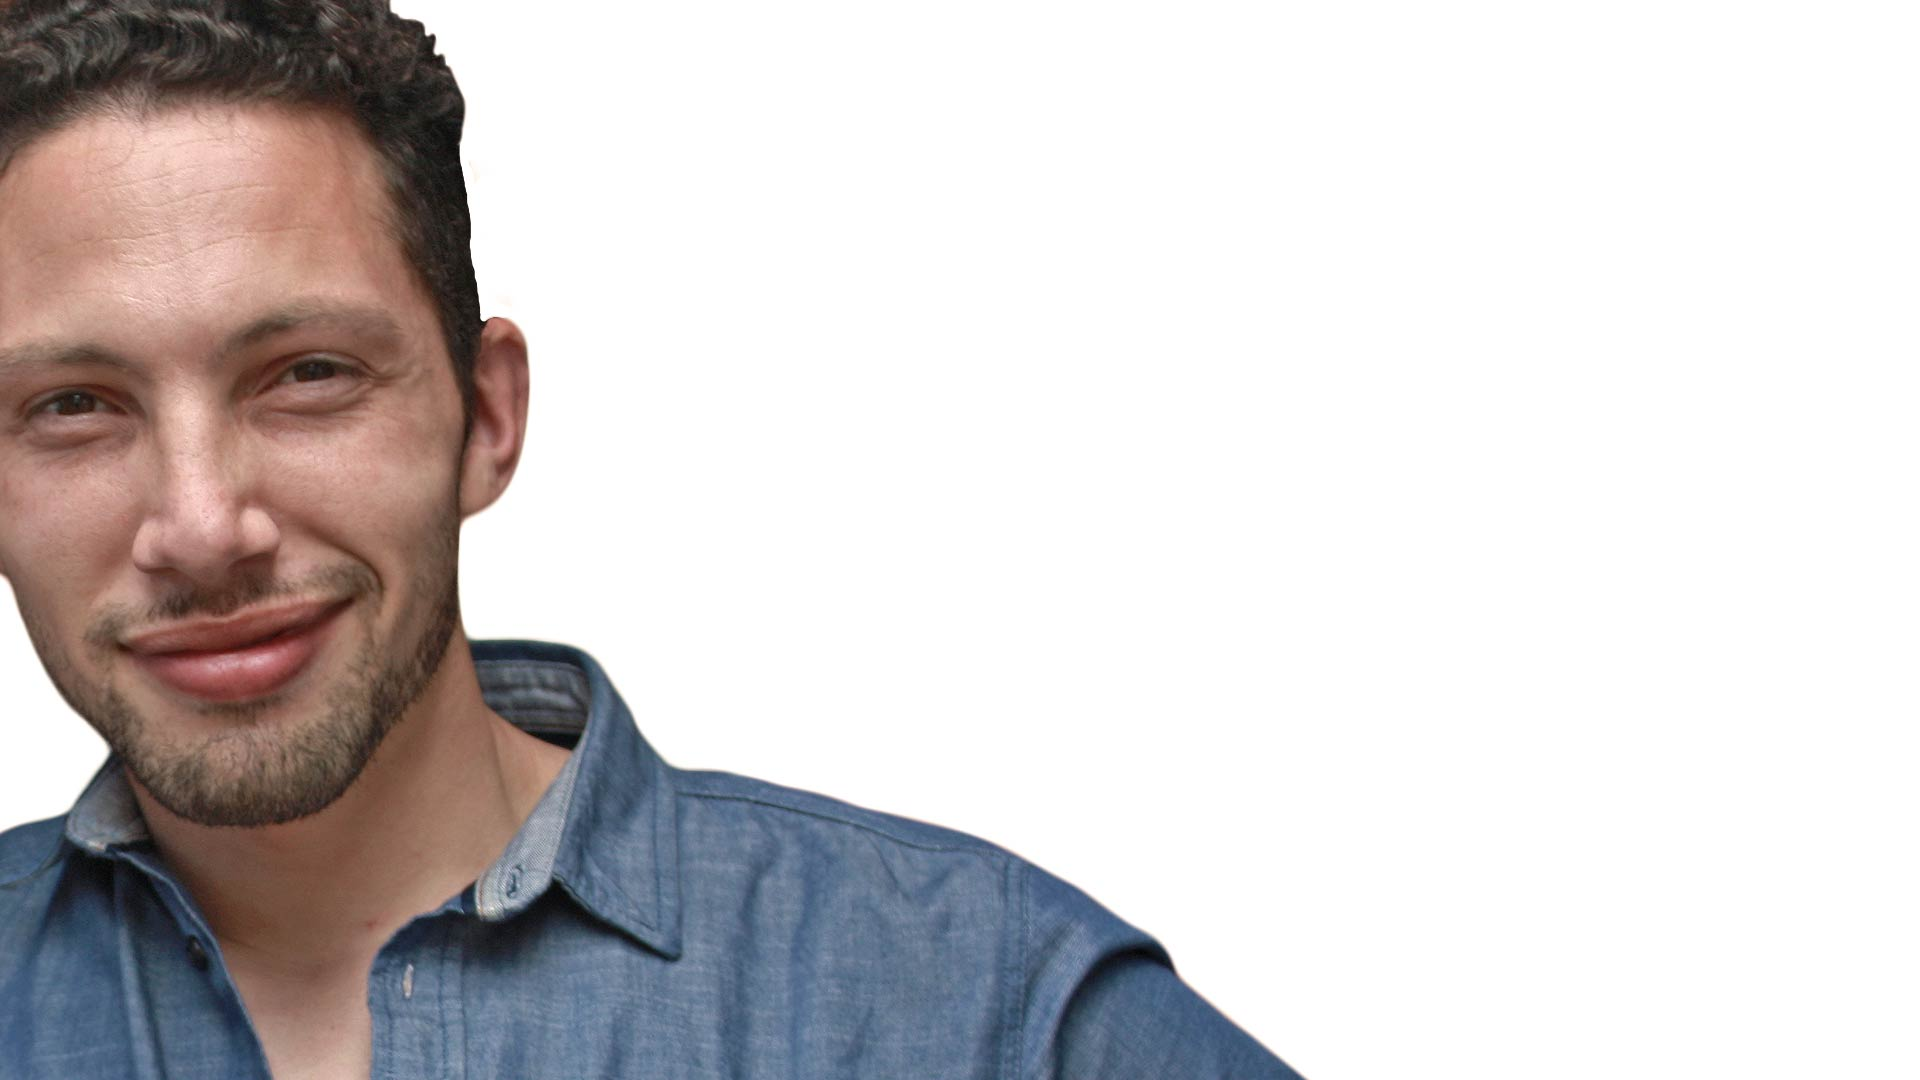
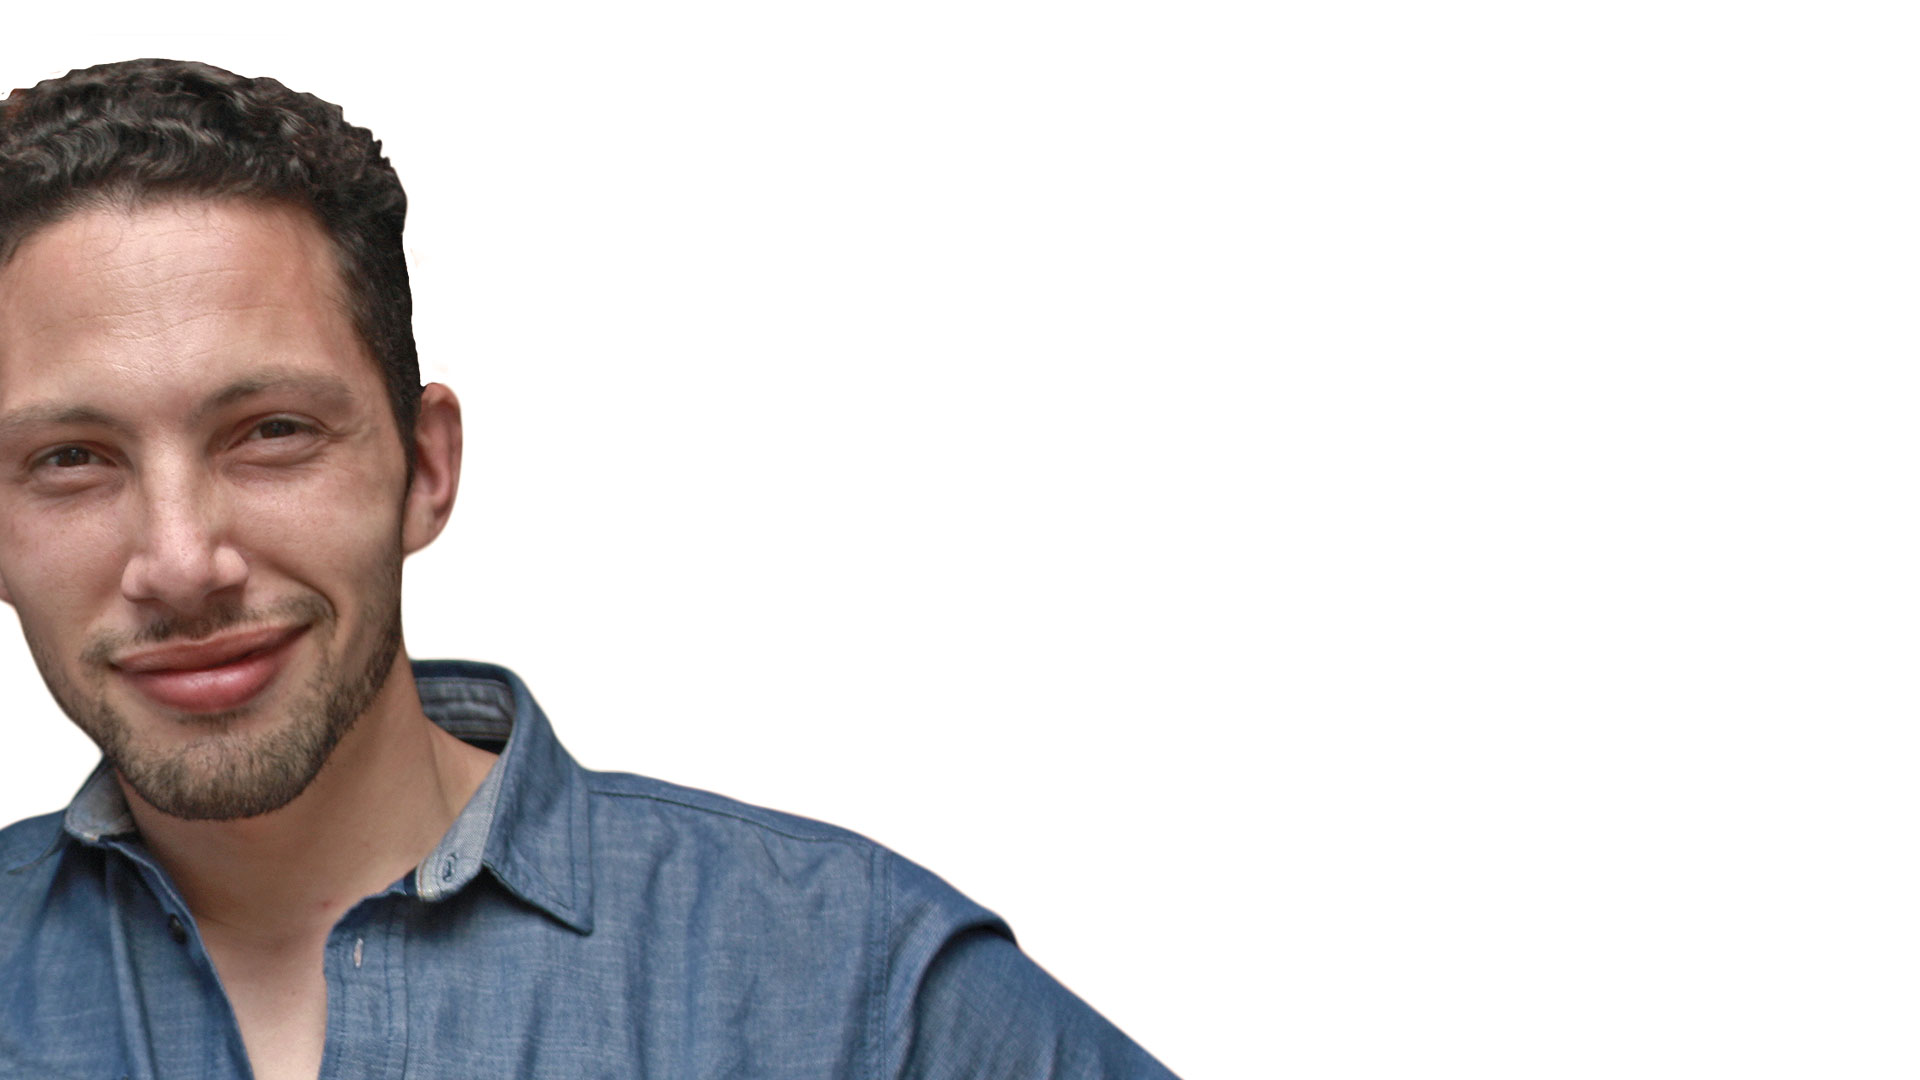
Rearranged the layout
I re-arranged the layout and made some cosmetic changes as well as
removed some effects.

Changed region(s): [[0.0, 0.0, 0.6875, 1.0], [0.375, 0.9778, 0.4062, 1.0]]

diff --git a/css/style.css b/css/style.css
@@ -208,7 +208,7 @@ Services Section
 #services {
   position: relative;
   height: 1400px;
-  background-image: url("../images/table-mountain.jpg");
+  background-image: url(../images/table-mountain.jpg);
   background-size: cover;
   background-attachment: fixed;
 }
@@ -374,9 +374,9 @@ Portfolio Section
 
 
 #portfolio {
-  background: url("../images/beach.jpg");
-  background-size: cover;
-  background-attachment: fixed;
+  margin: 0;
+  padding: 0;
+  background: #FF791D;
 }
 
 .portfolioGallery {
@@ -624,7 +624,6 @@ Media Queries
   margin: 1%;
   padding: 1%;
   display: inline-block;
-  background: rgba(255,255,255,0.2);
 }
 
 .webPopUp,
@@ -728,7 +727,7 @@ About Section
   top: 0;
   left: 30px;
   margin: 0 auto;
-  padding: 3%;
+  padding: 5%;
   line-height: 1.85;
   border-radius: 25px;
 }

diff --git a/js/slide.js b/js/slide.js
@@ -1,4 +1,6 @@
 $(document).ready(function() {
+$(window).scroll({offsetY: 1250},function() {
+
 	
 $('.webDesign').css({
 	left: '17%',
@@ -10,4 +12,8 @@ $('.printDesign').css({
 	opacity: 1
 });
 
+
+
+});
 }); //end of document.ready function
+

diff --git a/index.php b/index.php
@@ -37,78 +37,6 @@
                 <li class="needsButton button"><a href="needsAnalysis.php">Needs Analysis</a></li>
               </ul>   
         </nav>
-
-        <section id="services">
-              <div id="servicesPlacement" class="clearfix">
-    
-                   <h1>Design and Development</h1>
-                   <h3>Design and development services for professionals</h3>
-                   
-        
-                   <section class="webDesign">
-                         <h2>Web Design</h2>
-                         <img src="images/computer.svg" alt="web design icon">
-                         <h2>Click For More Info</h2>
-                   </section>
-        
-                   <section class="printDesign">
-                         <h2>Graphic Design</h2>
-                         <img src="images/printer.svg" alt="print design icon">
-                         <h2>Click For More Info</h2>
-                   </section>
-                   
-                   <div class="webPopUp">
-                   
-                     <span class="serviceIcon"><img src="images/gear.svg" alt="Web Development Service"></span><h2 id="popUpHeading1">Quality Web Design, Development Service</h2>
-                     <hr>
-                     <div class="colWrapper">
-                         <div class="col">
-                             <p>A web presence is a powerful and vital marketing tool in today's business environment. Your brand needs to represent a clear message to it's audience.</p>
-                             <p>A good web design promotes user engagement. It must be flexible in order to accomodate the various devices that exist in today's marketplace.</p>
-                         </div>
-                         <div class="col">
-                             <p>Every job is special and unique. Let’s get the creative process going on your business. If you don’t have the time to make contact now,  fill out the basic needs analysis form and I will contact you to get the ball rolling.</p>
-                             <ul>
-                             	<li>Website Mock-Ups</li>
-                                <li>Website Development</li>
-                                <li>UI/UX design</li>
-                                <li>Responsive design - for mobile devices</li>
-                                <li>Semantic markup(on-page optimisation)</li>
-                             </ul>
-                             <a href="#contact"><button class="button popUpButton">Get In Touch</button></a>
-                             <a href="needsAnalysis.php"><button class="button popUpButton">Needs Analysis</button></a>
-                         </div>
-                     </div>
-                     <button class="closeWindow">x</button>
-                   </div>
-                   
-                   <div class="webPopUp2">
-                     <span class="serviceIcon"><img src="images/pencil.svg" alt="Graphic Design Service"></span><h2 id="popUpHeading2">Attention-grabbing Graphic Design</h2>
-                     <hr>
-                     <div class="colWrapper">
-                         <div class="col">
-                           <p>Graphic design is the art of combining icons, images, space, typography and colour in order to illustrate a message or an idea. Great design acts as the glue that bonds an audience to a piece of content. Even the most complex systems need to be presented in a way that is simple, pleasing and easy to understand.</p>
-                           <p>Allow a team of passionate designers to work on your marketing material in order for your content to be highly regarded in the minds of your audience. Well designed content has proven itself as an essential aspect of a brands positioning in a market.</p>
-                         </div>
-                         <div class="col">
-                             <p> Let’s work on your look and feel. Contact us for more information or make sure to complete the “no-fuss” needs analysis form and I will get in touch with you.</p>
-                             <ul>
-                             	<li>Logo Design</li>
-                                <li>Illustration</li>
-                                <li>Corporate Identity(Business Cards, Flyers..)</li>
-                                <li>Corporate Gifts</li>
-                                <li>Banners/Signage</li>
-                             </ul>
-                             <a href="#contact"><button class="button popUpButton">Get In Touch</button></a>
-                             <a href="needsAnalysis.php"><button class="button popUpButton">Needs Analysis</button></a>
-                         </div>
-                     </div>
-                     <button class="closeWindow">x</button>
-                   </div>
-       
-    
-             </div>
-        </section>
     
         <section id="about">
               <div id="aboutPlacement" class="clearfix">
@@ -139,7 +67,79 @@
                             <p><a href="#contact">Get In Touch</a></p>
                           </div>
                   </section>
-                  </div>
+              </div>
+        </section>
+
+         <section id="services">
+              <div id="servicesPlacement" class="clearfix">
+    
+                   <h1>Design and Development</h1>
+                   <h3>Design and development services for professionals</h3>
+                   
+        
+                   <section class="webDesign">
+                         <h2>Web Design</h2>
+                         <img src="images/computer.svg" alt="web design icon">
+                         <h2>Click For More Info</h2>
+                   </section>
+        
+                   <section class="printDesign">
+                         <h2>Graphic Design</h2>
+                         <img src="images/printer.svg" alt="print design icon">
+                         <h2>Click For More Info</h2>
+                   </section>
+                   
+                   <div class="webPopUp">
+                   
+                     <span class="serviceIcon"><img src="images/gear.svg" alt="Web Development Service"></span><h2 id="popUpHeading1">Quality Web Design, Development Service</h2>
+                     <hr>
+                     <div class="colWrapper">
+                         <div class="col">
+                             <p>A web presence is a powerful and vital marketing tool in today's business environment. Your brand needs to represent a clear message to it's audience.</p>
+                             <p>A good web design promotes user engagement. It must be flexible in order to accomodate the various devices that exist in today's marketplace.</p>
+                         </div>
+                         <div class="col">
+                             <p>Every job is special and unique. Let’s get the creative process going on your business. If you don’t have the time to make contact now,  fill out the basic needs analysis form and I will contact you to get the ball rolling.</p>
+                             <ul>
+                              <li>Website Mock-Ups</li>
+                                <li>Website Development</li>
+                                <li>UI/UX design</li>
+                                <li>Responsive design - for mobile devices</li>
+                                <li>Semantic markup(on-page optimisation)</li>
+                             </ul>
+                             <a href="#contact"><button class="button popUpButton">Get In Touch</button></a>
+                             <a href="needsAnalysis.php"><button class="button popUpButton">Needs Analysis</button></a>
+                         </div>
+                     </div>
+                     <button class="closeWindow">x</button>
+                   </div>
+                   
+                   <div class="webPopUp2">
+                     <span class="serviceIcon"><img src="images/pencil.svg" alt="Graphic Design Service"></span><h2 id="popUpHeading2">Attention-grabbing Graphic Design</h2>
+                     <hr>
+                     <div class="colWrapper">
+                         <div class="col">
+                           <p>Graphic design is the art of combining icons, images, space, typography and colour in order to illustrate a message or an idea. Great design acts as the glue that bonds an audience to a piece of content. Even the most complex systems need to be presented in a way that is simple, pleasing and easy to understand.</p>
+                           <p>Allow a team of passionate designers to work on your marketing material in order for your content to be highly regarded in the minds of your audience. Well designed content has proven itself as an essential aspect of a brands positioning in a market.</p>
+                         </div>
+                         <div class="col">
+                             <p> Let’s work on your look and feel. Contact us for more information or make sure to complete the “no-fuss” needs analysis form and I will get in touch with you.</p>
+                             <ul>
+                              <li>Logo Design</li>
+                                <li>Illustration</li>
+                                <li>Corporate Identity(Business Cards, Flyers..)</li>
+                                <li>Corporate Gifts</li>
+                                <li>Banners/Signage</li>
+                             </ul>
+                             <a href="#contact"><button class="button popUpButton">Get In Touch</button></a>
+                             <a href="needsAnalysis.php"><button class="button popUpButton">Needs Analysis</button></a>
+                         </div>
+                     </div>
+                     <button class="closeWindow">x</button>
+                   </div>
+       
+    
+             </div>
         </section>
 
         <section id="portfolio">
@@ -183,6 +183,5 @@
        </section>
     <script src="js/popups.js"></script>
   	<script src="js/mobileNav.js"></script>
-    <script src="js/portfolioFocus.js"></script>
   </body>
 </html>
